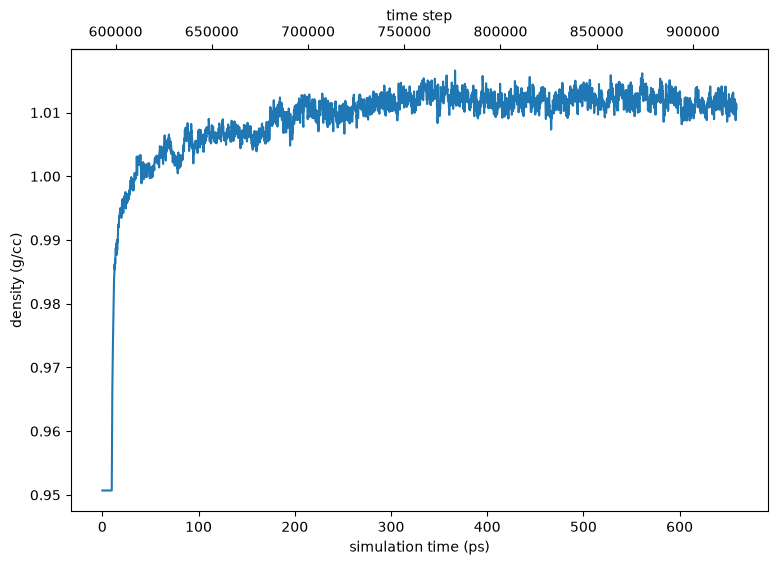
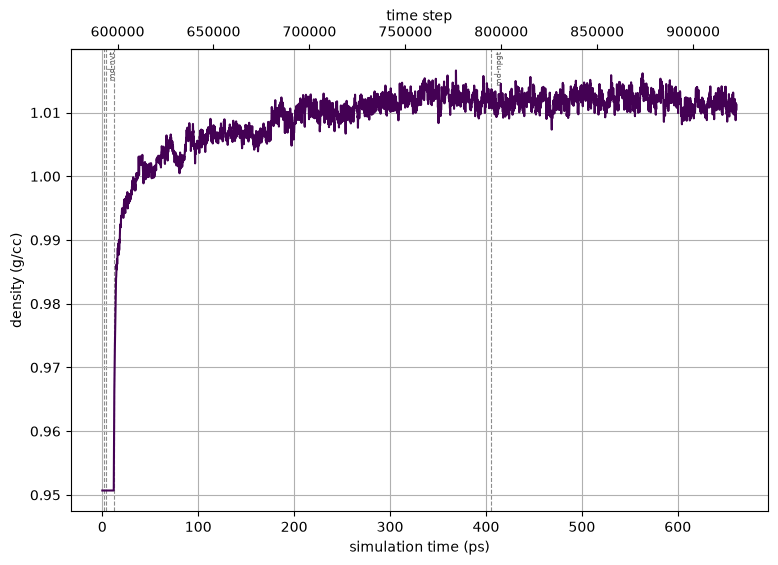
docs: regenerate mdplot figures; drop the density_equilibrate comment from every example
Figures are rebuilt from the 2026-08-11 sweep's archived NAMD logs through `pestifer mdplot`,
so they now carry stage markers and the auto-smoothing added this week. No example was re-run;
the whole set takes minutes.

Removes the three-line "Self-terminating NPT density equilibration" comment from the 20 example
yamls still carrying it, matching the five already cleaned by hand.

Those hand edits had left four doc figures orphaned, which this also settles: examples 23, 24
and 27 now plot cell dimensions rather than density (their mdplot no longer requests density,
since density_equilibrate writes its own convergence plot), so their pages reference
solvated-a_x-b_y-c_z.png and the stale density figures are deleted. Example 25 is left alone --
its config no longer has an mdplot task at all, so the figure its page shows can no longer be
produced by running the example; that needs a decision rather than a silent edit.

Two bugs surfaced while regenerating, both caught by looking at the output rather than the exit
code:

- Cell dimensions came out as an empty figure, because the driver extracted only .log files and
  the cell trajectory lives in the companion .xst.
- The membrane figures came out as crisscrossing traces sweeping through negative simulation
  time, because every NAMD log after the last system-changing task was included -- which sweeps
  in make_membrane_system's nested sub-controller runs on the calibration patches, systems that
[…]

diff --git a/scripts/regen_doc_figures.py b/scripts/regen_doc_figures.py
@@ -1,0 +1,108 @@
+#!/usr/bin/env python3
+"""Regenerate mdplot doc figures from the sweep's archived NAMD logs.
+
+Each example's own config says what its mdplot task plots, so the spec is read from there rather
+than restated here -- a figure regenerated under different settings than the build would produce
+is worse than a stale one.  Logs are selected the way mdplot itself selects data: only the runs
+after the last task that changed the system, since earlier dynamics describe a different system.
+"""
+import glob, os, re, subprocess, sys, tarfile, tempfile, shutil, yaml
+
+SWEEP = os.path.expanduser('~/devtests/pestifer/examples-sweep-2026-08-10')
+REPO = os.path.expanduser('~/Git/pestifer')
+PESTIFER = f'{REPO}/.venv/bin/pestifer'
+# tasks that change the system, so dynamics before them are not commensurable
+SYSTEM_CHANGING = {'psfgen', 'solvate', 'make_membrane_system', 'merge', 'desolvate', 'pdb2pqr'}
+LOG_RE = re.compile(r'^(\d+)-(\d+)-(\d+)_(.*)\.log$')
+
+
+def mdplot_spec(example):
+    cfg = glob.glob(f'{REPO}/pestifer/resources/examples/{example}/inputs/*.yaml')
+    if not cfg:
+        return None, None
+    d = yaml.safe_load(open(cfg[0]))
+    tasks = [list(t)[0] for t in d['tasks']]
+    spec = next((t['mdplot'] for t in d['tasks'] if list(t)[0] == 'mdplot'), None)
+    if spec is None:
+        return None, None
+    last_change = max([i for i, t in enumerate(tasks) if t in SYSTEM_CHANGING], default=-1)
+    return spec, last_change
+
+
+def extract_logs(example, work):
+    tb = glob.glob(f'{SWEEP}/example-{example}/*artifacts.tar.gz')
+    if not tb:
+        return []
+    with tarfile.open(tb[0]) as tf:
+        # .xst too: cell dimensions live in the xst trajectory, not the log, so extracting
+        # only logs yields an empty a_x/b_y/c_z figure rather than an error
+        members = [m for m in tf.getmembers() if m.name.endswith(('.log', '.xst'))]
+        tf.extractall(work, members=members)
+    return sorted(glob.glob(f'{work}/**/*.log', recursive=True))
+
+
+def namd_logs_after(logs, last_change):
+    """NAMD logs from tasks after the last system-changing one, chronological."""
+    out = []
+    for p in logs:
+        m = LOG_RE.match(os.path.basename(p))
+        if not m:
+            continue
+        controller, task_idx, label = int(m.group(1)), int(m.group(2)), m.group(4)
+        # Only the top-level controller.  A nested task such as make_membrane_system runs its own
+        # sub-pipeline (calibration patches, the bare quilt) under its own controller index, on
+        # systems that are not this one; concatenating those with the main line interleaves
+        # unrelated series and produces a meaningless curve rather than an error.
+        if controller != 0:
+            continue
+        if task_idx <= last_change:
+            continue
+        if not any(k in label for k in ('md-', 'density_equilibrate', 'membrane_equilibrate')):
+            continue
+        out.append((int(m.group(1)), task_idx, int(m.group(3)), p))
+    return [p for *_, p in sorted(out)]
+
+
+def main(examples):
+    for ex in examples:
+        spec, last_change = mdplot_spec(ex)
+        if spec is None:
+            print(f'example-{ex}: no mdplot task in config; skipping')
+            continue
+        work = tempfile.mkdtemp()
+        try:
+            logs = namd_logs_after(extract_logs(ex, work), last_change)
+            if not logs:
+                print(f'example-{ex}: no NAMD logs found; skipping')
+                continue
+            traces = []
+            for t in spec.get('timeseries', []):
+                traces.append(','.join(t) if isinstance(t, list) else t)
+            basename = spec.get('basename', 'solvated')
+            cmd = [PESTIFER, 'mdplot', '--basename', basename, '--logs', *logs]
+            # a nested entry means "overlay these on one axes", which the CLI spells
+            # --timecoseries; flattening them into --timeseries would make one figure per trace
+            scalars = [t for t in spec.get('timeseries', []) if not isinstance(t, list)]
+            groups = [t for t in spec.get('timeseries', []) if isinstance(t, list)]
+            if scalars:
+                cmd += ['--timeseries', *scalars]
+            for g in groups:
+                cmd += ['--timecoseries', *g]
+            if spec.get('profiles'):
+                cmd += ['--profiles', *spec['profiles']]
+            r = subprocess.run(cmd, cwd=work, capture_output=True, text=True, timeout=3600)
+            made = sorted(glob.glob(f'{work}/mdplots/*.png'))
+            print(f'example-{ex}: {len(logs)} logs -> {[os.path.basename(m) for m in made]}'
+                  + ('' if r.returncode == 0 else f'  [EXIT {r.returncode}]'))
+            for m in made:
+                print(f'    {m}')
+            # leave them in place for the caller to copy
+            dest = f'{SWEEP}/example-{ex}/regen'
+            os.makedirs(dest, exist_ok=True)
+            for m in made:
+                shutil.copy(m, dest)
+        finally:
+            shutil.rmtree(work, ignore_errors=True)
+
+
+main(sys.argv[1:])

diff --git a/pestifer/subcommands/mdplot.py b/pestifer/subcommands/mdplot.py
@@ -56,7 +56,9 @@ class MDPlotSubcommand(Subcommand):
         if args.timeseries:
             timeseries += args.timeseries
         if args.timecoseries:
-            timeseries += [args.timecoseries]
+            # action='append' with nargs='+' gives a list of groups, so several co-plotted sets
+            # can be requested; a single --timecoseries still yields exactly one group
+            timeseries += [g for g in args.timecoseries if g]
         C = Controller().configure(
             config, userspecs={
                 'tasks': [{
@@ -116,7 +118,10 @@ class MDPlotSubcommand(Subcommand):
         self.parser.add_argument('--basename', type=str, default='mdplot', help='basename of output files')
         self.parser.add_argument('--figsize', type=int, nargs=2, default=[9, 6],
                                  help='figure size in inches (default: %(default)s)')
-        self.parser.add_argument('--timecoseries', type=str, default=[], nargs='+', help='timeseries to plot on same axes')
+        self.parser.add_argument('--timecoseries', type=str, default=[], nargs='+', action='append',
+                                 metavar='TRACE',
+                                 help='traces to plot together on one axes; repeat the option for '
+                                      'several such groups')
         self.parser.add_argument('--timeseries', type=str, default=['density'], nargs='+', help='timeseries to plot')
         self.parser.add_argument('--profiles', type=str, default=[], nargs='*', help='profiles (along z) to plot')
         self.parser.add_argument('--profiles-per-block', type=int, default=100, help='number of profiles to plot per block (default: %(default)s)')

diff --git a/docs/source/examples/24/subtilisin-acetone.rst b/docs/source/examples/24/subtilisin-acetone.rst
@@ -20,9 +20,9 @@ The rest of the build is identical to the DMSO example: the equilibrated acetone
 
     The acetone box pestifer built **on the fly** (216 molecules; edge ~30 Å, ρ 0.77 g/cc) and cached for reuse, then tiled to fill the cell.  Space-filling view: oxygen is red, carbon grey -- and, unlike DMSO (:ref:`Example 23 <example subtilisin-dmso>`), there is no sulfur.  Rendered with `mdview <https://github.com/cameronabrams/mdview>`_.
 
-.. figure:: solvated-density.png
+.. figure:: solvated-a_x-b_y-c_z.png
 
-    Density over the progressive-NPT equilibration of the system, which settles near the bulk value for acetone (~0.79 g/cc).  The auto-generated box was itself equilibrated to a density of 0.77 g/cc before tiling.
+    Cell dimensions over the equilibration of the acetone-solvated system, condensing from the loosely tiled solvent box to their equilibrium values.  Density is reported separately by the ``density_equilibrate`` task, which writes its own convergence plot.
 
 .. raw:: html
 

diff --git a/docs/source/examples/23/subtilisin-dmso.rst b/docs/source/examples/23/subtilisin-dmso.rst
@@ -22,9 +22,9 @@ Rather than water, the ``solvate`` task is given ``solvent: DMSO``.  Pestifer ti
 
     Subtilisin Carlsberg (green cartoon) solvated in DMSO, as built by Pestifer -- 22,488 atoms (1,834 DMSO molecules) in a box of roughly 62 x 61 x 68 Å.  Rendered with `mdview <https://github.com/cameronabrams/mdview>`_.
 
-.. figure:: solvated-density.png
+.. figure:: solvated-a_x-b_y-c_z.png
 
-    Density over the progressive-NPT equilibration of the system, which settles near the bulk value for DMSO.
+    Cell dimensions over the equilibration of the DMSO-solvated system, condensing from the loosely tiled solvent box to their equilibrium values.  Density is reported separately by the ``density_equilibrate`` task, which writes its own convergence plot, so plotting it again here would duplicate that figure.
 
 .. raw:: html
 

diff --git a/docs/source/examples/27/ubiquitin-gfp-fusion.rst b/docs/source/examples/27/ubiquitin-gfp-fusion.rst
@@ -66,10 +66,11 @@ cleanly.
     peptide bond to the GFP β-barrel (green), with the chromophore ``CRO`` shown
     in space-filling representation (orange) at the center of the barrel.
 
-.. figure:: solvated-density.png
+.. figure:: solvated-a_x-b_y-c_z.png
 
-    Density over the progressive-NPT equilibration of the solvated fusion
-    construct, settling near the bulk value for water.
+    Cell dimensions over the equilibration of the solvated fusion construct.
+    Density is reported separately by the ``density_equilibrate`` task, which
+    writes its own convergence plot.
 
 .. raw:: html
 
